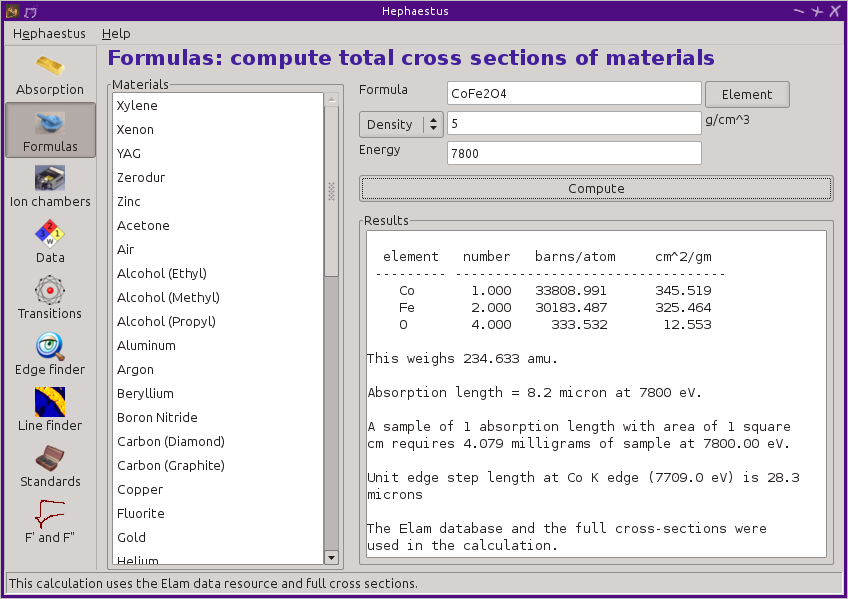
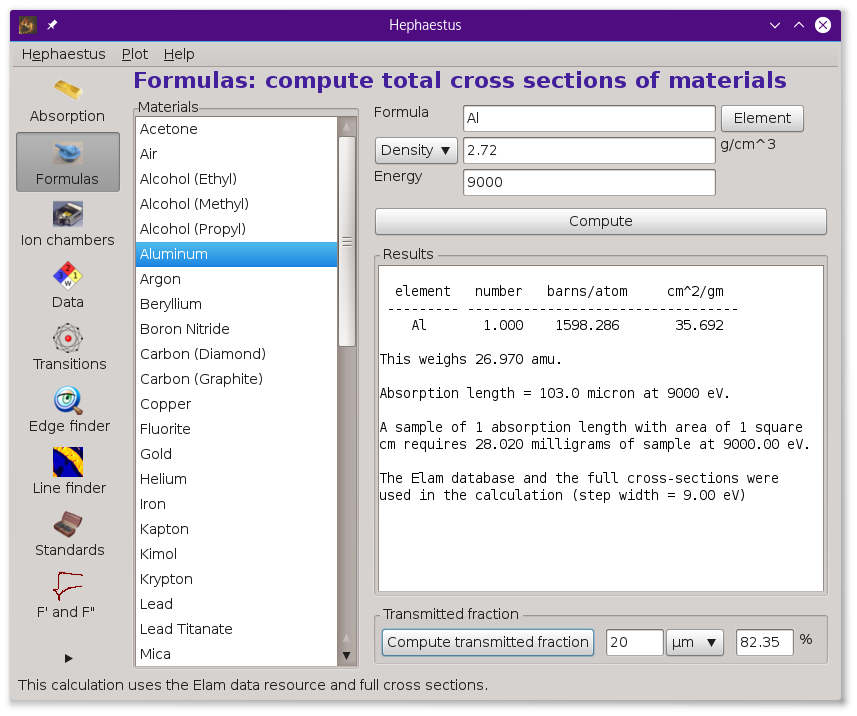
document transmitted fraction in Heph formulas tool

diff --git a/documentation/Athena/hephaestus.rst b/documentation/Athena/hephaestus.rst
@@ -215,6 +215,17 @@ Finally, an energy in eV is required at which to make the calculation.
 
    The formulas tool.
 
+At the bottom of the page is a tool for computing transmitted fraction
+from the material just computed.  You can enter a sample thickness and
+choose from |mu| m, m, and cm units.  Pressing the :button:`Compute
+transmitted fraction,light` button will use the cross section reported
+above to display the transmitted fraction of X-rays at the current
+energy through the sample.  This is presented as a percentage of the
+incident intensity transmitted through the sample.
+
+Detailed explanation
+~~~~~~~~~~~~~~~~~~~~
+
 Here is an example of the results printed for BN, with a specific
 gravity of 2.29 and at energy of 7800 eV:
 
@@ -443,7 +454,7 @@ for the major isotopes.
     which used to be a site about Mossbauer spectroscopy but now seems 
     to be a unmaintained science news site.  `Wikipedia
     <https://en.wikipedia.org/wiki/M%C3%B6ssbauer_spectroscopy>`_ has  
-    a nice periodic table of <ossbauer active elements and Darby Dyer
+    a nice periodic table of Mossbauer active elements and Darby Dyer
     keeps `a lovely page about Mossbauer <http://serc.carleton.edu/research_education/geochemsheets/techniques/mossbauer.html>`_.
 **Ionic radii**
     .. bibliography:: athena.bib
@@ -574,6 +585,9 @@ http://exafsmaterials.com/Ref_Spectra_0.4MB.pdf
 
    An anotated standards plot for manganese oxalate.
 
+The plotting range can be controlled using the
+:configparam:`Hephaestus,standards_emin` and
+:configparam:`Hephaestus,standards_emax` parameters.
 
 
 F' and F"
@@ -605,6 +619,10 @@ The f' and f" data can be saved to a file.
 
    An f' and f" plot for vanadium.
 
+The plotting range can be controlled using the
+:configparam:`Hephaestus,f1f2_emin` and
+:configparam:`Hephaestus,f1f2_emax` parameters.  The energy grid of
+the calculation is set using :configparam:`Hephaestus,f1f2_grid`.
 
 
 Preferences
